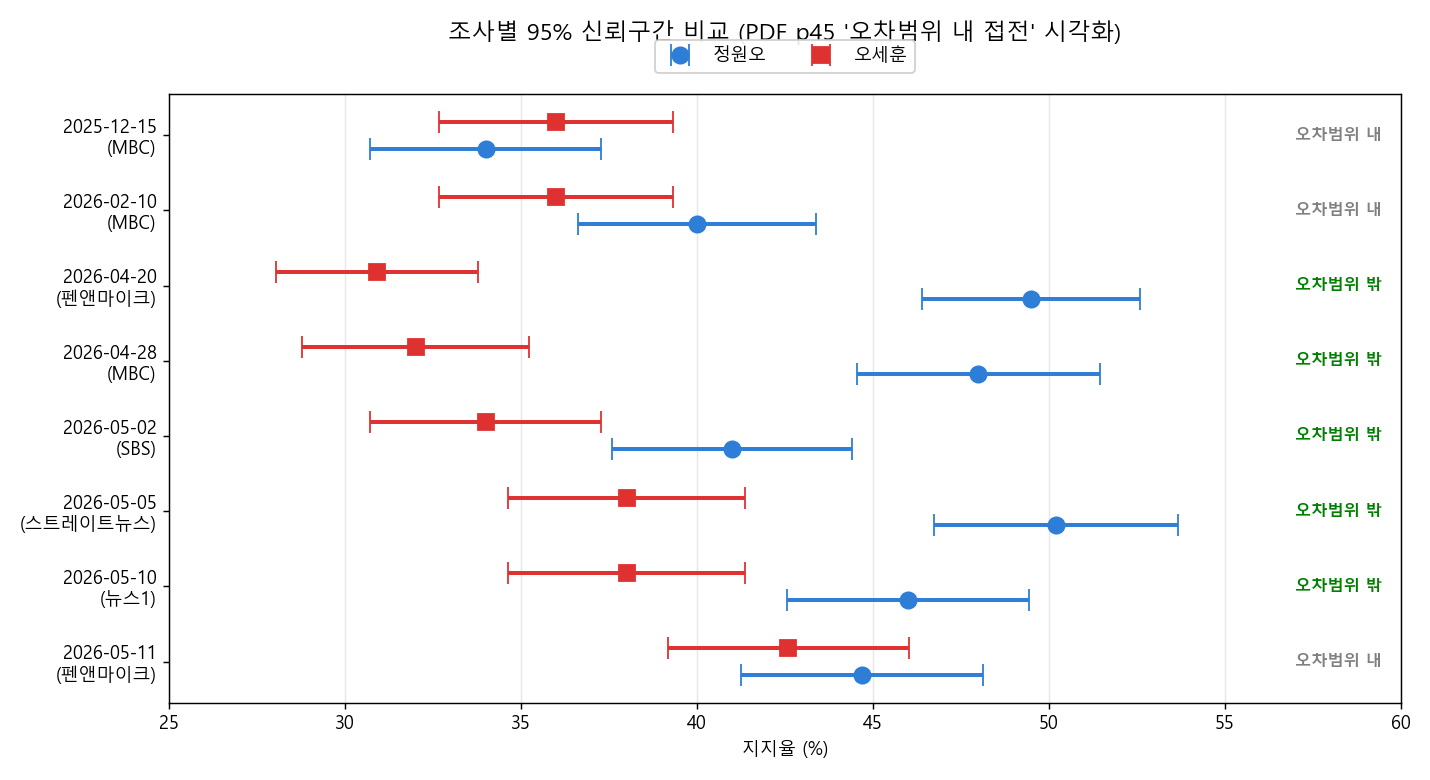
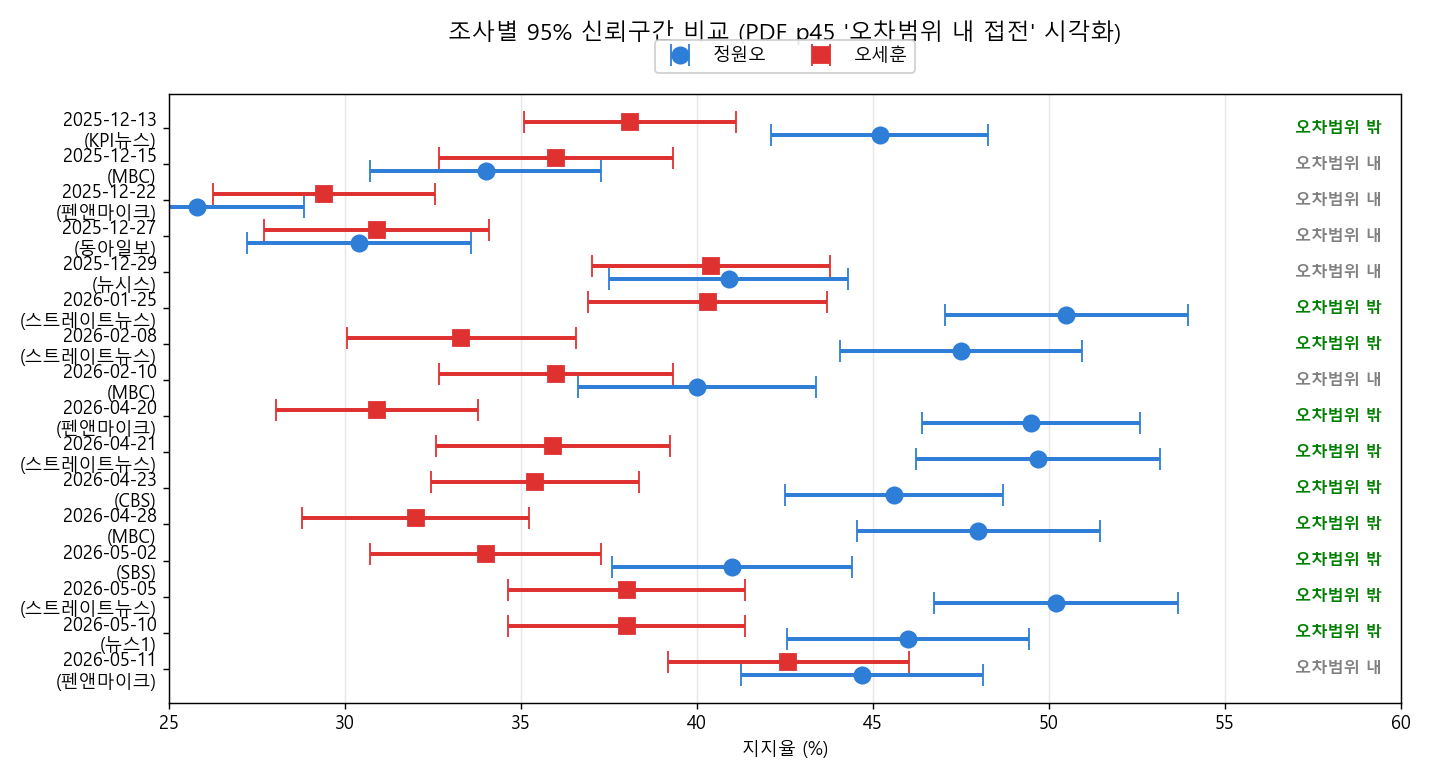
data: 서울시장 폴 전수 보강 — 8건 → 16건
신규 추가 (시간 순):
- 2025-12-13 KPI뉴스/리서치뷰 (정원오 45.2 / 오세훈 38.1)
- 2025-12-22 펜앤마이크/여론조사공정 (다자, 25.8 / 29.4 / 나경원 15.5)
- 2025-12-27 동아일보/리서치앤리서치 (30.4 / 30.9 박빙)
- 2025-12-29 뉴시스/에이스리서치 (40.9 / 40.4 초접전)
- 2026-01-25 스트레이트뉴스/조원씨앤아이 (50.5 / 40.3)
- 2026-02-08 스트레이트뉴스/조원씨앤아이 (47.5 / 33.3)
- 2026-04-21 스트레이트뉴스/조원씨앤아이 (49.7 / 35.9)
- 2026-04-23 CBS/KSOI (45.6 / 35.4)

Poll-of-polls 갱신: n_eff 6,605 → 13,425, Z +7.80 → +9.91, p-value 사실상 0
EMBEDDED 폴백 데이터 + 차트 4종 동기화

diff --git a/dashboard.html b/dashboard.html
@@ -598,16 +598,24 @@ n_eff = ΣW_i</div>
 // 모든 폴은 pOthers (제3후보 합) + pUnd (부동층) 자동 계산.
 // pUnd = 1 - pDem - pPP - pOthers
 const EMBEDDED = {
-  lastUpdated: "2026-05-13T09:48:00+09:00",
+  lastUpdated: "2026-05-13T10:33:00+09:00",
   polls: [
-    {city:"서울시장", date:"2025-12-15", pollster:"코리아리서치",     client:"MBC",       n:800,  candDem:"정원오", pDem:0.340, candPP:"오세훈", pPP:0.360, pOthers:0,     pUnd:0.300, method:"전화면접+ARS", responseRate:11.5, sourceUrl:"https://imnews.imbc.com/news/2026/politics/article/6790513_36911.html"},
-    {city:"서울시장", date:"2026-02-10", pollster:"코리아리서치",     client:"MBC",       n:800,  candDem:"정원오", pDem:0.400, candPP:"오세훈", pPP:0.360, pOthers:0,     pUnd:0.240, method:"전화면접+ARS", responseRate:11.8, sourceUrl:"https://imnews.imbc.com/news/2026/politics/article/6801176_36911.html"},
-    {city:"서울시장", date:"2026-04-20", pollster:"여론조사공정",     client:"펜앤마이크", n:1000, candDem:"정원오", pDem:0.495, candPP:"오세훈", pPP:0.309, pOthers:0,     pUnd:0.196, method:"ARS",         responseRate:8.5,  sourceUrl:"https://www.pennmike.com"},
-    {city:"서울시장", date:"2026-04-28", pollster:"코리아리서치",     client:"MBC",       n:800,  candDem:"정원오", pDem:0.480, candPP:"오세훈", pPP:0.320, pOthers:0,     pUnd:0.200, method:"전화면접+ARS", responseRate:12.3, sourceUrl:"https://imnews.imbc.com/news/2026/politics/article/6819190_36911.html"},
-    {city:"서울시장", date:"2026-05-02", pollster:"입소스",          client:"SBS",       n:800,  candDem:"정원오", pDem:0.410, candPP:"오세훈", pPP:0.340, pOthers:0,     pUnd:0.250, method:"전화면접",     responseRate:10.7, sourceUrl:"https://sstpnews.com/news/view/1065574220707918"},
-    {city:"서울시장", date:"2026-05-05", pollster:"조원씨앤아이",     client:"스트레이트뉴스", n:802, candDem:"정원오", pDem:0.502, candPP:"오세훈", pPP:0.380, pOthers:0,     pUnd:0.118, method:"ARS",         responseRate:6.4,  sourceUrl:"https://www.straightnews.co.kr/news/articleView.html?idxno=301726"},
-    {city:"서울시장", date:"2026-05-10", pollster:"한국갤럽",         client:"뉴스1",     n:802,  candDem:"정원오", pDem:0.460, candPP:"오세훈", pPP:0.380, pOthers:0.030, pUnd:0.130, method:"전화면접",     responseRate:11.0, sourceUrl:"https://www.fnnews.com/news/202605130530574567"},
-    {city:"서울시장", date:"2026-05-11", pollster:"여론조사공정",     client:"펜앤마이크", n:801,  candDem:"정원오", pDem:0.447, candPP:"오세훈", pPP:0.426, pOthers:0.037, pUnd:0.090, method:"ARS",         responseRate:5.7,  sourceUrl:"https://www.pennmike.com/news/articleView.html?idxno=120337"},
+    {city:"서울시장", date:"2025-12-13", pollster:"리서치뷰",        client:"KPI뉴스",        n:1000, candDem:"정원오", pDem:0.452, candPP:"오세훈", pPP:0.381, pOthers:0,     pUnd:0.167, method:"ARS",         responseRate:5.4,  sourceUrl:"https://www.industrynews.co.kr/news/articleView.html?idxno=75709"},
+    {city:"서울시장", date:"2025-12-15", pollster:"코리아리서치",     client:"MBC",          n:800,  candDem:"정원오", pDem:0.340, candPP:"오세훈", pPP:0.360, pOthers:0,     pUnd:0.300, method:"전화면접+ARS", responseRate:11.5, sourceUrl:"https://imnews.imbc.com/news/2026/politics/article/6790513_36911.html"},
+    {city:"서울시장", date:"2025-12-22", pollster:"여론조사공정",     client:"펜앤마이크",     n:801,  candDem:"정원오", pDem:0.258, candPP:"오세훈", pPP:0.294, pOthers:0.155, pUnd:0.293, method:"ARS",         responseRate:5.2,  sourceUrl:"https://www.munhwa.com/article/11556464"},
+    {city:"서울시장", date:"2025-12-27", pollster:"리서치앤리서치",   client:"동아일보",       n:802,  candDem:"정원오", pDem:0.304, candPP:"오세훈", pPP:0.309, pOthers:0,     pUnd:0.387, method:"전화면접",     responseRate:8.7,  sourceUrl:"https://www.donga.com"},
+    {city:"서울시장", date:"2025-12-29", pollster:"에이스리서치",     client:"뉴시스",         n:804,  candDem:"정원오", pDem:0.409, candPP:"오세훈", pPP:0.404, pOthers:0,     pUnd:0.187, method:"ARS",         responseRate:5.2,  sourceUrl:"https://www.ajunews.com/view/20260101163550180"},
+    {city:"서울시장", date:"2026-01-25", pollster:"조원씨앤아이",     client:"스트레이트뉴스", n:804,  candDem:"정원오", pDem:0.505, candPP:"오세훈", pPP:0.403, pOthers:0,     pUnd:0.092, method:"ARS",         responseRate:5.5,  sourceUrl:"https://www.munhwa.com/article/11564098"},
+    {city:"서울시장", date:"2026-02-08", pollster:"조원씨앤아이",     client:"스트레이트뉴스", n:806,  candDem:"정원오", pDem:0.475, candPP:"오세훈", pPP:0.333, pOthers:0,     pUnd:0.192, method:"ARS",         responseRate:5.7,  sourceUrl:"https://www.munhwa.com/article/11567327"},
+    {city:"서울시장", date:"2026-02-10", pollster:"코리아리서치",     client:"MBC",          n:800,  candDem:"정원오", pDem:0.400, candPP:"오세훈", pPP:0.360, pOthers:0,     pUnd:0.240, method:"전화면접+ARS", responseRate:11.8, sourceUrl:"https://imnews.imbc.com/news/2026/politics/article/6801176_36911.html"},
+    {city:"서울시장", date:"2026-04-20", pollster:"여론조사공정",     client:"펜앤마이크",     n:1000, candDem:"정원오", pDem:0.495, candPP:"오세훈", pPP:0.309, pOthers:0,     pUnd:0.196, method:"ARS",         responseRate:8.5,  sourceUrl:"https://www.pennmike.com"},
+    {city:"서울시장", date:"2026-04-21", pollster:"조원씨앤아이",     client:"스트레이트뉴스", n:802,  candDem:"정원오", pDem:0.497, candPP:"오세훈", pPP:0.359, pOthers:0,     pUnd:0.144, method:"ARS",         responseRate:6.3,  sourceUrl:"https://www.hankookilbo.com/news/article/amp/A2026042414360004222"},
+    {city:"서울시장", date:"2026-04-23", pollster:"KSOI",            client:"CBS",          n:1001, candDem:"정원오", pDem:0.456, candPP:"오세훈", pPP:0.354, pOthers:0,     pUnd:0.190, method:"무선전화",     responseRate:5.1,  sourceUrl:"https://www.hankookilbo.com/news/article/amp/A2026042414360004222"},
+    {city:"서울시장", date:"2026-04-28", pollster:"코리아리서치",     client:"MBC",          n:800,  candDem:"정원오", pDem:0.480, candPP:"오세훈", pPP:0.320, pOthers:0,     pUnd:0.200, method:"전화면접+ARS", responseRate:12.3, sourceUrl:"https://imnews.imbc.com/news/2026/politics/article/6819190_36911.html"},
+    {city:"서울시장", date:"2026-05-02", pollster:"입소스",          client:"SBS",          n:800,  candDem:"정원오", pDem:0.410, candPP:"오세훈", pPP:0.340, pOthers:0,     pUnd:0.250, method:"전화면접",     responseRate:10.7, sourceUrl:"https://sstpnews.com/news/view/1065574220707918"},
+    {city:"서울시장", date:"2026-05-05", pollster:"조원씨앤아이",     client:"스트레이트뉴스", n:802,  candDem:"정원오", pDem:0.502, candPP:"오세훈", pPP:0.380, pOthers:0,     pUnd:0.118, method:"ARS",         responseRate:6.4,  sourceUrl:"https://www.straightnews.co.kr/news/articleView.html?idxno=301726"},
+    {city:"서울시장", date:"2026-05-10", pollster:"한국갤럽",         client:"뉴스1",        n:802,  candDem:"정원오", pDem:0.460, candPP:"오세훈", pPP:0.380, pOthers:0.030, pUnd:0.130, method:"전화면접",     responseRate:11.0, sourceUrl:"https://www.fnnews.com/news/202605130530574567"},
+    {city:"서울시장", date:"2026-05-11", pollster:"여론조사공정",     client:"펜앤마이크",     n:801,  candDem:"정원오", pDem:0.447, candPP:"오세훈", pPP:0.426, pOthers:0.037, pUnd:0.090, method:"ARS",         responseRate:5.7,  sourceUrl:"https://www.pennmike.com/news/articleView.html?idxno=120337"},
     {city:"성남시장", date:"2026-02-09", pollster:"한길리서치",       client:"뉴스1",     n:503,  candDem:"김병욱", pDem:0.320, candPP:"신상진", pPP:0.350, pOthers:0, pUnd:0.330, method:"ARS",         responseRate:9.2,  sourceUrl:"https://www.news1.kr/local/gyeonggi/6066685"},
     {city:"성남시장", date:"2026-04-04", pollster:"한국갤럽",         client:"경인일보",   n:503,  candDem:"김병욱", pDem:0.480, candPP:"신상진", pPP:0.330, pOthers:0, pUnd:0.190, method:"전화면접",     responseRate:12.6, sourceUrl:"https://www.kyeongin.com/article/1763058"},
     {city:"성남시장", date:"2026-04-26", pollster:"한길리서치",       client:"인천일보",   n:503,  candDem:"김병욱", pDem:0.436, candPP:"신상진", pPP:0.382, pOthers:0, pUnd:0.182, method:"ARS",         responseRate:9.5,  sourceUrl:"https://v.daum.net/v/20260428060013997"},
